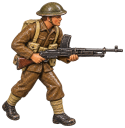
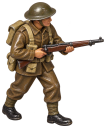
Prompt delle pedine: camera alta e figure appoggiate a terra, scafi tagliati alla linea di galleggiamento, regole per le eliche (motori e pale contati); nuovo fante alleato

diff --git a/docs/pedine.md b/docs/pedine.md
@@ -60,6 +60,18 @@ Il gioco le prende da solo. Una dottrina senza figure tiene i gettoni disegnati.
 
 Sulla mappa la pedina è piccola, circa 40 pixel. Per questo il prompt chiede forme semplici e massicce e una silhouette che si riconosca a colpo d'occhio.
 
+### Perché una figura sembra sospesa, e come lo evita il prompt
+
+La mappa si guarda dall'alto. Una figura disegnata di lato (occhio all'altezza della pancia) mostra i piedi o le ruote sulla stessa linea della pancia, e sulla mappa sembra galleggiare. Per sembrare appoggiata servono tre cose, già nel prompt di stile:
+
+- **Camera alta, a circa 45°.** Si vede la parte superiore dell'elmetto, delle spalle, del cofano o della torretta; i piedi stanno più in basso e un po' più vicini a chi guarda.
+- **Peso sul terreno.** Piedi entrambi piatti alla stessa altezza (o un piede avanti ma appoggiato), ruote e cingoli che toccano tutti lo stesso piano, gambe leggermente piegate: niente salti, niente passi a mezz'aria.
+- **Niente ombra disegnata e niente terreno.** L'ombra e il contatto col suolo li mette il gioco, uguali per tutte le figure. Un'ombra dipinta dal generatore sarebbe ogni volta diversa e verrebbe tagliata male quando si toglie lo sfondo.
+
+Per le navi vale lo stesso al livello dell'acqua: lo scafo finisce **dritto sulla linea di galleggiamento**, senza la chiglia rossa sotto. Una nave con la chiglia visibile sembra tirata fuori dall'acqua.
+
+Se una figura esce comunque sospesa, chiedi: *"Redo it seen more from above, about 45 degrees: we must see the top of the helmet and shoulders, and both feet flat on the same invisible ground level."*
+
 ---
 
 ## Prompt di stile (da incollare per primo in ogni chat)
@@ -71,14 +83,17 @@ I need a set of game pieces for a WW2 strategy board game seen on a map.
 Style for ALL images in this chat:
 - a single hand-painted tin toy soldier / miniature figure, like a classic painted lead figurine, slightly glossy enamel paint, subtle metal wear on the edges
 - chunky, simplified proportions and a strong, clear silhouette that stays readable when shown very small (40 pixels)
-- three-quarter view from slightly above, the figure faces RIGHT
-- soft light from the top left, gentle shadows on the figure only
-- NO base, NO pedestal, NO ground, NO shadow on the ground
+- camera HIGH: three-quarter view from above at about 45 degrees, like a player looking down at a figure on a game table; we see the top of helmets, shoulders, hoods and turrets; the figure faces RIGHT
+- the figure is planted on an invisible flat ground: soldiers have both feet flat on the same level, weight down, knees slightly bent; every wheel and both tracks touch the same flat ground plane; nothing jumps or floats
+- soft light from the top left, gentle shading on the figure only
+- NO base, NO pedestal, NO ground surface, NO shadow drawn on the ground (the game adds its own)
 - transparent background (PNG), square 1024x1024 image, the whole figure visible and centered with some margin
 - no text, no letters, no numbers, no flags, no frame
 Faction for this chat: [FACTION]
-Reply only with the image. First figure: one infantry soldier advancing with a rifle.
+Reply only with the image. First figure: one infantry soldier walking forward with a rifle held across the chest, both boots on the ground.
 ```
+
+Le figure degli Alleati già fatte con la versione vecchia del prompt (camera più bassa) vanno bene per i mezzi. **Fanteria, genio e sanità** conviene rifarle con questa versione: sono quelle che sembrano più sospese, perché sono alte e strette.
 
 ### Blocchi `[FACTION]`
 
@@ -113,8 +128,8 @@ Dove ci sono tre esempi di mezzo, usa quello della dottrina della chat. Gli esem
 | `artillery` | `Next figure, same style: a towed field howitzer with a long barrel raised at an angle, with one crewman loading a shell beside it.` |
 | `antiTank` | `Next figure, same style: a small, low anti-tank gun with a gun shield and a straight barrel aimed forward, with one kneeling crewman.` |
 | `antiAircraft` | `Next figure, same style: a light anti-aircraft gun on a cross-shaped mount with the barrel pointing steeply up at the sky, with one crewman aiming.` |
-| `engineer` | `Next figure, same style: a combat engineer soldier carrying a shovel and a pickaxe, with a coil of rope or a small toolbox; rifle slung on the back.` |
-| `medic` | `Next figure, same style: an army medic soldier carrying a canvas first-aid bag and a folded stretcher, with a plain white armband (no symbols on it).` |
+| `engineer` | `Next figure, same style, same high camera: a combat engineer soldier standing with both boots flat on the ground, carrying a shovel and a pickaxe, with a coil of rope or a small toolbox; rifle slung on the back.` |
+| `medic` | `Next figure, same style, same high camera: an army medic soldier standing with both boots flat on the ground, carrying a canvas first-aid bag and a folded stretcher, with a plain white armband (no symbols on it).` |
 
 Per la Sanità niente croce rossa: è un simbolo protetto e nei giochi si evita. Basta la fascia bianca.
 
@@ -125,23 +140,39 @@ Per la Sanità niente croce rossa: è un simbolo protetto e nei giochi si evita.
 Stessa chat o una nuova. Prima incolla questa variante del prompt di stile (al posto della frase sul punto di vista):
 
 ```
-Same tin miniature style as before. Aircraft: seen from above at a three-quarter angle, flying towards the RIGHT, no propeller blur. Ships: seen from the side, slightly from above, bow pointing RIGHT, no water. Transparent background, no text, no flags.
+Same tin miniature style as before. Aircraft: seen from above at a three-quarter angle, flying towards the RIGHT. Ships: seen from the side and from above at about 30 degrees so we see the deck, bow pointing RIGHT, the hull ends in a straight flat line at the waterline (no keel, no red underwater hull, no water). Transparent background, no text, no flags.
+PROPELLERS, very important for every aircraft:
+- the propellers are STOPPED, sharp and solid, like on a parked toy model: no motion blur, no transparent spinning disc, no circle
+- exactly one propeller at the front of EACH engine, mounted on a pointed spinner cone at the very front of the engine nose; nothing on the back of the wing
+- every propeller has the exact number of blades I give you, all the same length and shape, evenly spaced around the spinner like a star
+- blades are thin, dark metal, as long as the engine is wide or a bit longer, clearly separated from the engine cowling
 ```
+
+### Le eliche: come farle uscire giuste
+
+I generatori sbagliano le eliche in quattro modi: le disegnano **in movimento** (un disco sfocato o trasparente, che poi si taglia male con lo sfondo), sbagliano **il numero di pale**, ne mettono **di troppo o di meno** sui plurimotori, oppure le **fondono col muso** del motore. Per questo:
+
+1. Il blocco PROPELLERS sopra va incollato una volta nella chat, prima del primo aereo.
+2. Ogni prompt degli aerei dice **quanti motori e quante pale**: il numero esplicito funziona molto meglio di "come l'aereo vero".
+3. Controlla l'immagine prima di salvarla: conta motori ed eliche, conta le pale di un'elica.
+4. Se è sbagliata, **correggi solo le eliche**, senza far rigenerare tutto l'aereo (che cambierebbe anche il resto). In ChatGPT puoi selezionare la zona delle eliche con lo strumento di modifica dell'immagine e scrivere:
+   *"Fix only the propellers: [N] stopped propellers, one on the nose of each engine, each with exactly [B] sharp blades evenly spaced around a pointed spinner. No blur, no disc. Keep everything else identical."*
+5. Se dopo due tentativi esce ancora male: chiedi l'aereo con le eliche viste un po' più di fronte (*"turn the plane slightly towards the viewer so the propellers are seen more from the front"*). Di tre quarti le pale si accorciano in prospettiva ed è lì che il generatore si confonde.
 
 | id | Prompt |
 |---|---|
-| `fighter` | `A single-engine fighter plane. Allies: Spitfire/Hurricane-like. Germans: Bf 109-like. Soviets: I-16 / Yak-1-like.` |
-| `tacticalBomber` | `A dive bomber / light bomber with bombs under the wings. Allies: Blenheim-like. Germans: Ju 87 Stuka-like. Soviets: Il-2-like.` |
-| `torpedoBomber` | `A torpedo bomber carrying a torpedo under the fuselage. Allies: Swordfish biplane-like. Germans: He 111 with torpedo-like. Soviets: DB-3-like.` |
-| `strategicBomber` | `A large four-engine heavy bomber. Allies: Lancaster/Halifax-like. Germans: Fw 200 Condor-like. Soviets: Pe-8-like.` |
-| `recon` | `A slender twin-engine reconnaissance plane with a glazed nose. Allies: Lysander/Anson-like. Germans: Fw 189-like. Soviets: R-5 / Su-2-like.` |
+| `fighter` | `A single-engine fighter plane: ONE engine in the nose, ONE stopped propeller. Allies: Hurricane-like, 3 blades. Germans: Bf 109-like, 3 blades. Soviets: I-16-like, 2 blades.` |
+| `tacticalBomber` | `A single-engine dive bomber with bombs under the wings: ONE engine in the nose, ONE stopped propeller with 3 blades. Allies: Fairey Battle-like. Germans: Ju 87 Stuka-like with gull wings. Soviets: Il-2-like.` |
+| `torpedoBomber` | `A torpedo bomber carrying a torpedo under the fuselage. Allies: Swordfish biplane-like, ONE engine, ONE stopped propeller with 3 blades. Germans: He 111-like, TWO engines on the wings, TWO stopped propellers with 3 blades each. Soviets: DB-3-like, TWO engines on the wings, TWO stopped propellers with 3 blades each.` |
+| `strategicBomber` | `A large heavy bomber with FOUR engines on the wings, two on each wing, and FOUR stopped propellers with 3 blades each, one on the front of every engine. Allies: Lancaster/Halifax-like. Germans: Fw 200 Condor-like. Soviets: Pe-8-like.` |
+| `recon` | `A slender twin-engine reconnaissance plane with a glazed nose: TWO engines on the wings, TWO stopped propellers with 3 blades each. Allies: Blenheim-like. Germans: Ju 88-like. Soviets: Pe-2-like.` |
 | `submarine` | `A submarine on the surface, low hull and conning tower with a deck gun.` |
 | `destroyer` | `A slim, fast destroyer with two gun turrets and torpedo tubes.` |
 | `cruiser` | `A cruiser, longer than a destroyer, with several medium gun turrets and one or two funnels.` |
 | `battleship` | `A huge battleship with big triple or twin gun turrets fore and aft and a tall superstructure; clearly the largest warship.` |
 | `carrier` | `An aircraft carrier with a long flat flight deck and a small island superstructure on the right side, a few small planes parked on deck.` |
 
-I file vanno in `icone/pedine/<dottrina>/<id>.png`, come per le unità di terra.
+I file vanno in `icone/icone <dottrina>/icone pedine/<id>.png`, come per le unità di terra.
 
 ---
 
@@ -169,7 +200,7 @@ Accorgimenti:
 - Il **convoglio mercantile** è l'unica pedina con due figure. Tienile vicine, così a 40 pixel si legge come un gruppo e non come due macchie.
 - Le navi mercantili sono civili, quindi le tre dottrine possono uscire simili. Va bene così: il colore del cartellino dirà di chi sono.
 
-I file vanno in `icone/pedine/<dottrina>/<id>.png`, come gli altri.
+I file vanno in `icone/icone <dottrina>/icone pedine/<id>.png` (trasporto e convoglio mercantile in `icone/icone in comune/`), come gli altri.
 
 ---
 
